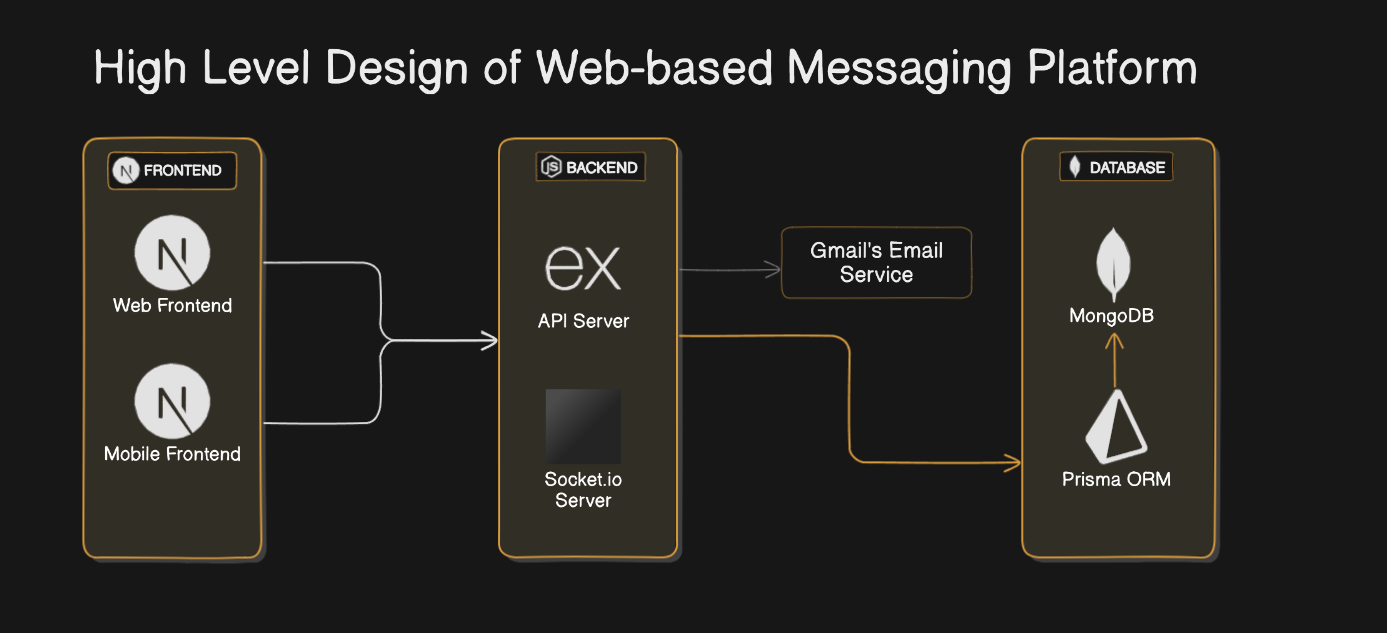
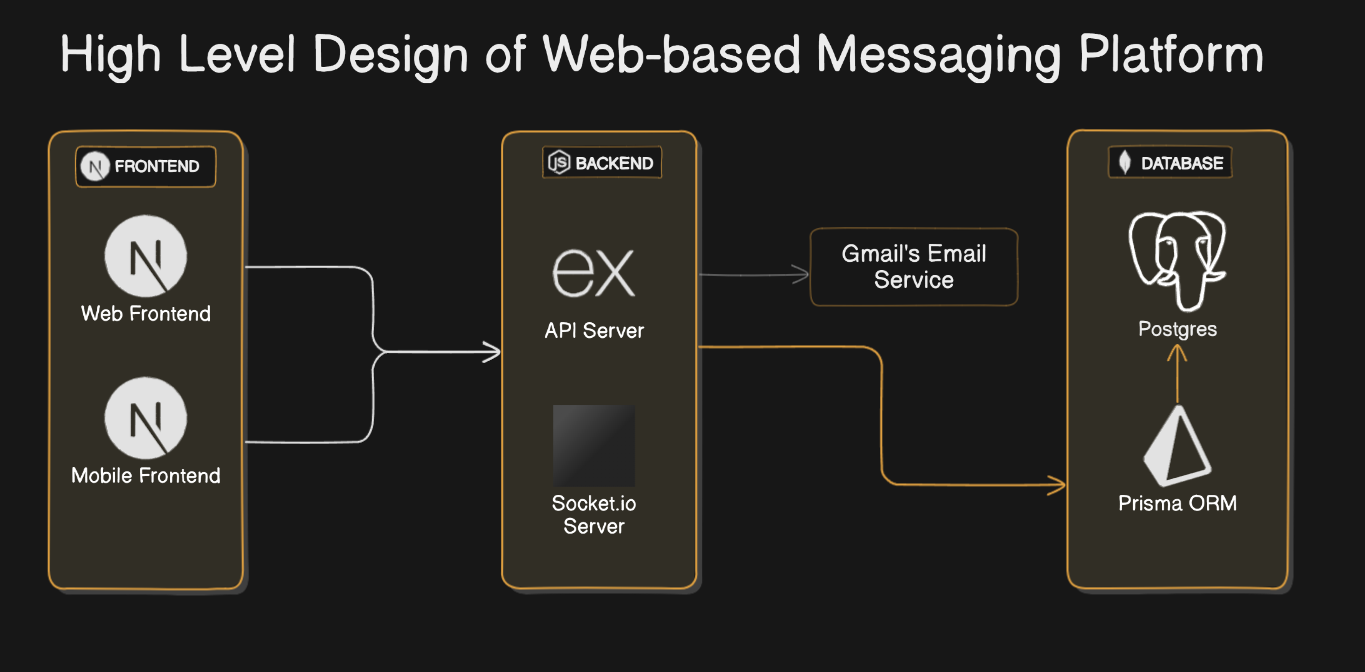
db migrated to postgres

diff --git a/README.md b/README.md
@@ -29,12 +29,13 @@ Note: [V2] - Denotes that these features are for future enhancement.
 - **Storage:** Initial setup to handle data for up to 10,000 users with scope for expansion.
 - **Traffic:** System designed to handle up to 1000 concurrent users initially with the ability to scale.
 
-**Choosing Database:**
-Based on our requirements for flexibility in data structures and the need for easier scalability, MongoDB with Prisma could indeed be a better choice. Additionally, its support for horizontal scaling through sharding can help manage increased loads effectively as your application grows.
+### Choosing Database:**
+Based on our requirements for complex relationships, scalability, and support for ACID transactions, We can use PostgresSQL. 
+PostgreSQL's strong support for relational data structures and its capability for horizontal scalability through clustering and partitioning make it ideal for our application.
 
 ### Tech Stack:
 - **Backend:** TypeScript with Node.js and Express.js
-- **Database:** MongoDB with Prisma ORM
+- **Database:** PostgresSQL with Prisma ORM
 - **Real-Time Communication:** Socket.io
 - **Frontend:** Next.js
 - **Styling:** Tailwind CSS, shadcn/ui
